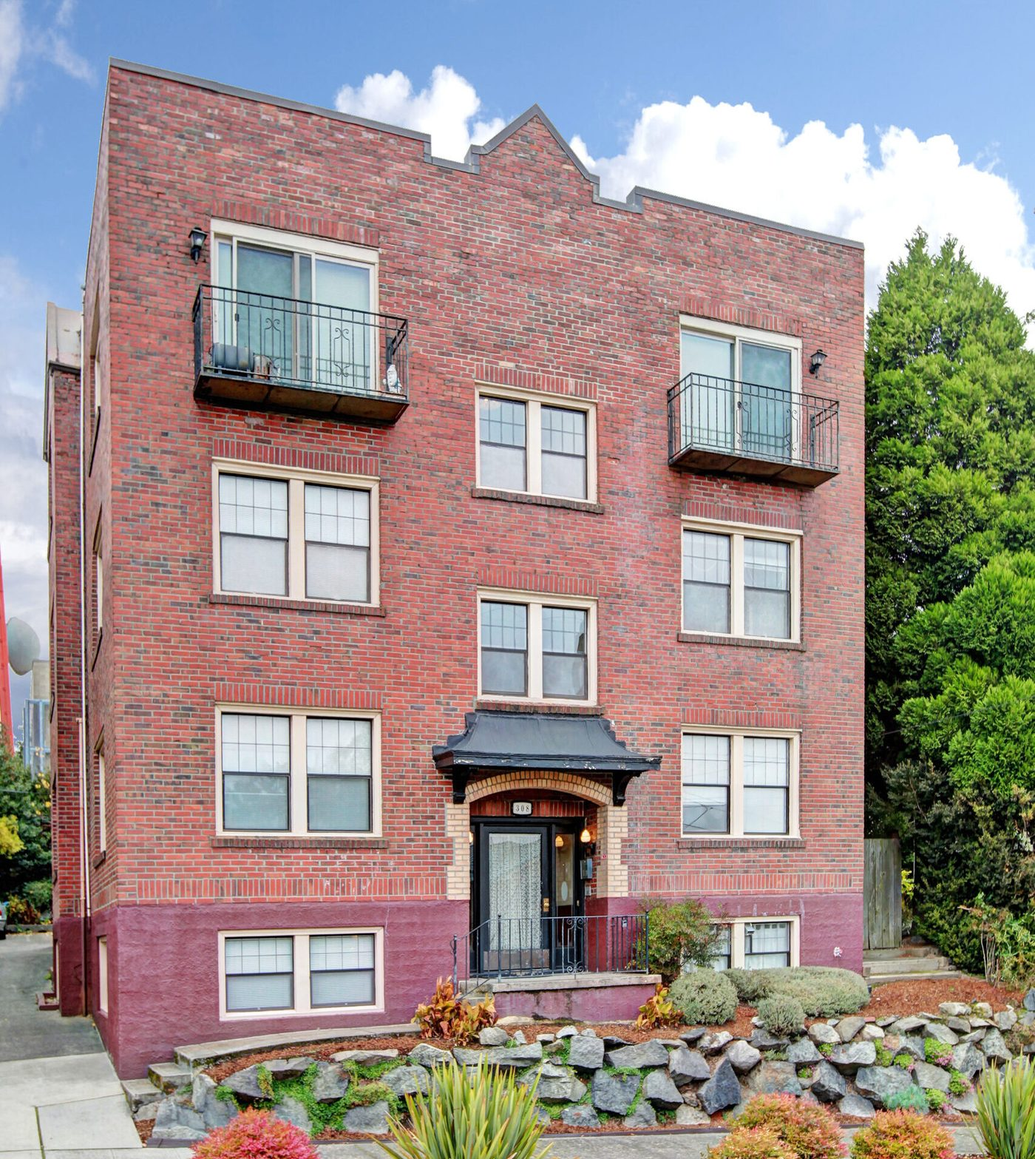
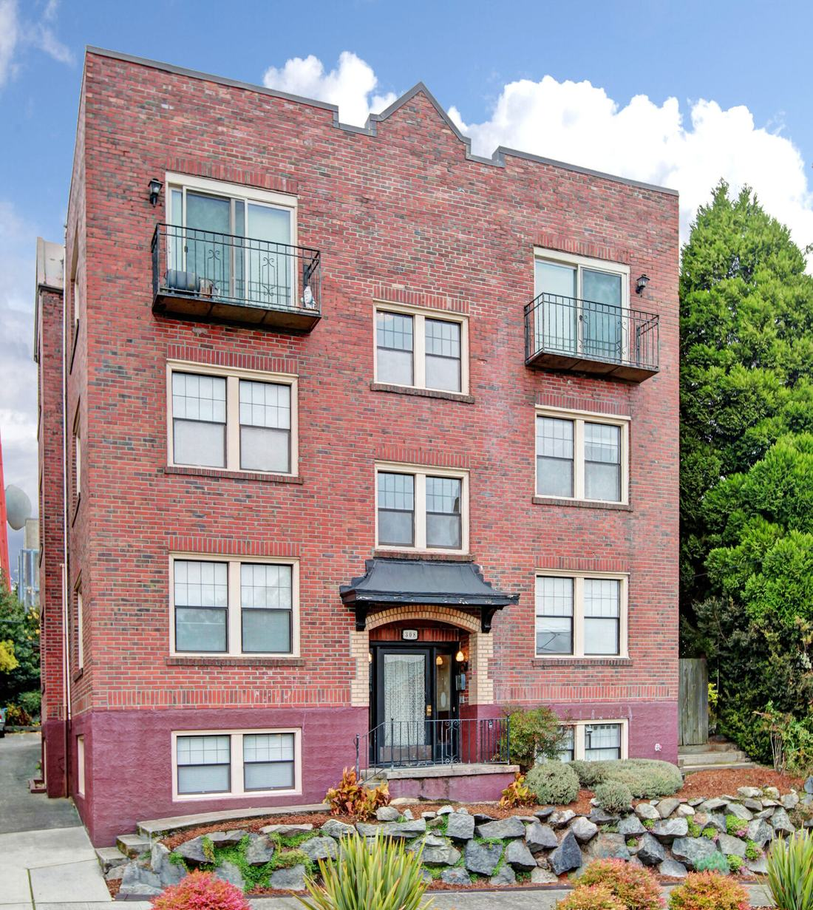
Moorman demo: Equal Housing line, Terms and Privacy links, skip link, lighter hero
Claude-Session: https://claude.ai/code/session_01ATfweUhA8yqw534rkRRJLU

diff --git a/demo/moorman/index.html b/demo/moorman/index.html
@@ -11,12 +11,13 @@
 <link rel="stylesheet" href="moorman.css">
 </head>
 <body>
+<a class="skip" href="#main">Skip to content</a>
 <p class="concept">Concept redesign by <a href="https://ghostwoodlabs.com/web-design/">Ghostwood Labs</a>. Not the official Moorman Properties website.</p>
 <header class="top">
 <a class="brand" href="./"><span>Moorman</span> Properties</a>
 <nav aria-label="Main"><a href="#available">Available Now</a><a href="queen-anne/">Queen Anne</a><a href="ballard/">Ballard</a><a href="green-lake/">Green Lake</a><a href="capitol-hill/">Capitol Hill</a><a href="#contact">Contact</a></nav>
 </header>
-<main>
+<main id="main">
 <section class="hero wrap">
 <div class="say">
 <p class="eyebrow">Seattle Apartment Rentals</p>
@@ -24,7 +25,7 @@
 <p class="lede">More than twenty-six buildings in Queen Anne, Ballard, Green Lake and Capitol Hill, from an 1899 walk-up to mid-century courtyards with a view. Our office is on Boston Street, at the top of Queen Anne.</p>
 <p class="cta"><a class="btn" href="#available">See What&rsquo;s Available</a><a class="quiet" href="tel:+12063785899">or call 206-378-5899</a></p>
 </div>
-<figure><img src="img/hero.jpg" width="1400" height="1567" alt="The Mary Lew Apartments, a brick building at the top of Queen Anne Hill" fetchpriority="high"><figcaption>The Mary Lew, Queen Anne</figcaption></figure>
+<figure><img src="img/hero.jpg" width="1100" height="1231" alt="The Mary Lew Apartments, a brick building at the top of Queen Anne Hill" fetchpriority="high"><figcaption>The Mary Lew, Queen Anne</figcaption></figure>
 </section>
 <section class="facts"><ul class="wrap">
 <li><b>26+</b> buildings</li><li><b>4</b> neighborhoods</li><li><b>1899</b> our oldest</li><li><b>12</b> apartments listed Nov 16</li>
@@ -177,7 +178,7 @@ l.forEach(function(i){i.hidden=f!=='all'&&i.dataset.hood!==f})})})})();
 <p><a href="https://moormanproperties.appfolio.com/listings" target="_blank" rel="noopener">All vacancies and applications</a><br><a href="https://www.hum.wa.gov/fair-housing" target="_blank" rel="noopener">Fair housing in Washington</a><br><a href="https://www.facebook.com/moormanproperties/" target="_blank" rel="noopener">Facebook</a></p>
 </div>
 </div>
-<p class="wrap legal">&copy; 2026 Moorman Properties &middot; Seattle, Washington</p>
+<p class="wrap legal"><span>&copy; 2026 Moorman Properties &middot; Seattle, Washington &middot; Equal Housing Opportunity</span><span><a href="https://seattleapartmentrentals.com/wpautoterms/terms-and-conditions/" target="_blank" rel="noopener">Terms of Use</a> &middot; <a href="https://seattleapartmentrentals.com/wpautoterms/privacy-policy/" target="_blank" rel="noopener">Privacy Policy</a></span></p>
 </footer>
 </body>
 </html>

diff --git a/demo/moorman/queen-anne/index.html b/demo/moorman/queen-anne/index.html
@@ -11,12 +11,13 @@
 <link rel="stylesheet" href="../moorman.css">
 </head>
 <body>
+<a class="skip" href="#main">Skip to content</a>
 <p class="concept">Concept redesign by <a href="https://ghostwoodlabs.com/web-design/">Ghostwood Labs</a>. Not the official Moorman Properties website.</p>
 <header class="top">
 <a class="brand" href="../"><span>Moorman</span> Properties</a>
 <nav aria-label="Main"><a href="../#available">Available Now</a><a href="../queen-anne/" aria-current="page">Queen Anne</a><a href="../ballard/">Ballard</a><a href="../green-lake/">Green Lake</a><a href="../capitol-hill/">Capitol Hill</a><a href="../#contact">Contact</a></nav>
 </header>
-<main>
+<main id="main">
 <section class="wrap title">
 <p class="eyebrow"><a href="../">Moorman Properties</a> &middot; 20 buildings</p>
 <h1>Queen Anne</h1>
@@ -103,7 +104,7 @@
 <p><a href="https://moormanproperties.appfolio.com/listings" target="_blank" rel="noopener">All vacancies and applications</a><br><a href="https://www.hum.wa.gov/fair-housing" target="_blank" rel="noopener">Fair housing in Washington</a><br><a href="https://www.facebook.com/moormanproperties/" target="_blank" rel="noopener">Facebook</a></p>
 </div>
 </div>
-<p class="wrap legal">&copy; 2026 Moorman Properties &middot; Seattle, Washington</p>
+<p class="wrap legal"><span>&copy; 2026 Moorman Properties &middot; Seattle, Washington &middot; Equal Housing Opportunity</span><span><a href="https://seattleapartmentrentals.com/wpautoterms/terms-and-conditions/" target="_blank" rel="noopener">Terms of Use</a> &middot; <a href="https://seattleapartmentrentals.com/wpautoterms/privacy-policy/" target="_blank" rel="noopener">Privacy Policy</a></span></p>
 </footer>
 </body>
 </html>

diff --git a/demo/moorman/capitol-hill/index.html b/demo/moorman/capitol-hill/index.html
@@ -11,12 +11,13 @@
 <link rel="stylesheet" href="../moorman.css">
 </head>
 <body>
+<a class="skip" href="#main">Skip to content</a>
 <p class="concept">Concept redesign by <a href="https://ghostwoodlabs.com/web-design/">Ghostwood Labs</a>. Not the official Moorman Properties website.</p>
 <header class="top">
 <a class="brand" href="../"><span>Moorman</span> Properties</a>
 <nav aria-label="Main"><a href="../#available">Available Now</a><a href="../queen-anne/">Queen Anne</a><a href="../ballard/">Ballard</a><a href="../green-lake/">Green Lake</a><a href="../capitol-hill/" aria-current="page">Capitol Hill</a><a href="../#contact">Contact</a></nav>
 </header>
-<main>
+<main id="main">
 <section class="wrap title">
 <p class="eyebrow"><a href="../">Moorman Properties</a> &middot; 1 building</p>
 <h1>Capitol Hill</h1>
@@ -54,7 +55,7 @@
 <p><a href="https://moormanproperties.appfolio.com/listings" target="_blank" rel="noopener">All vacancies and applications</a><br><a href="https://www.hum.wa.gov/fair-housing" target="_blank" rel="noopener">Fair housing in Washington</a><br><a href="https://www.facebook.com/moormanproperties/" target="_blank" rel="noopener">Facebook</a></p>
 </div>
 </div>
-<p class="wrap legal">&copy; 2026 Moorman Properties &middot; Seattle, Washington</p>
+<p class="wrap legal"><span>&copy; 2026 Moorman Properties &middot; Seattle, Washington &middot; Equal Housing Opportunity</span><span><a href="https://seattleapartmentrentals.com/wpautoterms/terms-and-conditions/" target="_blank" rel="noopener">Terms of Use</a> &middot; <a href="https://seattleapartmentrentals.com/wpautoterms/privacy-policy/" target="_blank" rel="noopener">Privacy Policy</a></span></p>
 </footer>
 </body>
 </html>

diff --git a/demo/moorman/green-lake/index.html b/demo/moorman/green-lake/index.html
@@ -11,12 +11,13 @@
 <link rel="stylesheet" href="../moorman.css">
 </head>
 <body>
+<a class="skip" href="#main">Skip to content</a>
 <p class="concept">Concept redesign by <a href="https://ghostwoodlabs.com/web-design/">Ghostwood Labs</a>. Not the official Moorman Properties website.</p>
 <header class="top">
 <a class="brand" href="../"><span>Moorman</span> Properties</a>
 <nav aria-label="Main"><a href="../#available">Available Now</a><a href="../queen-anne/">Queen Anne</a><a href="../ballard/">Ballard</a><a href="../green-lake/" aria-current="page">Green Lake</a><a href="../capitol-hill/">Capitol Hill</a><a href="../#contact">Contact</a></nav>
 </header>
-<main>
+<main id="main">
 <section class="wrap title">
 <p class="eyebrow"><a href="../">Moorman Properties</a> &middot; 2 buildings</p>
 <h1>Green Lake</h1>
@@ -43,7 +44,7 @@
 <p><a href="https://moormanproperties.appfolio.com/listings" target="_blank" rel="noopener">All vacancies and applications</a><br><a href="https://www.hum.wa.gov/fair-housing" target="_blank" rel="noopener">Fair housing in Washington</a><br><a href="https://www.facebook.com/moormanproperties/" target="_blank" rel="noopener">Facebook</a></p>
 </div>
 </div>
-<p class="wrap legal">&copy; 2026 Moorman Properties &middot; Seattle, Washington</p>
+<p class="wrap legal"><span>&copy; 2026 Moorman Properties &middot; Seattle, Washington &middot; Equal Housing Opportunity</span><span><a href="https://seattleapartmentrentals.com/wpautoterms/terms-and-conditions/" target="_blank" rel="noopener">Terms of Use</a> &middot; <a href="https://seattleapartmentrentals.com/wpautoterms/privacy-policy/" target="_blank" rel="noopener">Privacy Policy</a></span></p>
 </footer>
 </body>
 </html>

diff --git a/demo/moorman/ballard/index.html b/demo/moorman/ballard/index.html
@@ -11,12 +11,13 @@
 <link rel="stylesheet" href="../moorman.css">
 </head>
 <body>
+<a class="skip" href="#main">Skip to content</a>
 <p class="concept">Concept redesign by <a href="https://ghostwoodlabs.com/web-design/">Ghostwood Labs</a>. Not the official Moorman Properties website.</p>
 <header class="top">
 <a class="brand" href="../"><span>Moorman</span> Properties</a>
 <nav aria-label="Main"><a href="../#available">Available Now</a><a href="../queen-anne/">Queen Anne</a><a href="../ballard/" aria-current="page">Ballard</a><a href="../green-lake/">Green Lake</a><a href="../capitol-hill/">Capitol Hill</a><a href="../#contact">Contact</a></nav>
 </header>
-<main>
+<main id="main">
 <section class="wrap title">
 <p class="eyebrow"><a href="../">Moorman Properties</a> &middot; 3 buildings</p>
 <h1>Ballard</h1>
@@ -68,7 +69,7 @@
 <p><a href="https://moormanproperties.appfolio.com/listings" target="_blank" rel="noopener">All vacancies and applications</a><br><a href="https://www.hum.wa.gov/fair-housing" target="_blank" rel="noopener">Fair housing in Washington</a><br><a href="https://www.facebook.com/moormanproperties/" target="_blank" rel="noopener">Facebook</a></p>
 </div>
 </div>
-<p class="wrap legal">&copy; 2026 Moorman Properties &middot; Seattle, Washington</p>
+<p class="wrap legal"><span>&copy; 2026 Moorman Properties &middot; Seattle, Washington &middot; Equal Housing Opportunity</span><span><a href="https://seattleapartmentrentals.com/wpautoterms/terms-and-conditions/" target="_blank" rel="noopener">Terms of Use</a> &middot; <a href="https://seattleapartmentrentals.com/wpautoterms/privacy-policy/" target="_blank" rel="noopener">Privacy Policy</a></span></p>
 </footer>
 </body>
 </html>

diff --git a/demo/moorman/moorman.css b/demo/moorman/moorman.css
@@ -112,3 +112,8 @@ footer h3{font:500 13px var(--sans);letter-spacing:.14em;text-transform:uppercas
 .also h3{font-size:27px}
 .also ul{display:flex;flex-wrap:wrap;gap:6px 36px;margin:14px 0 12px;font:400 20px/1.4 var(--serif)}
 .also p{color:var(--mid);font-size:16px}
+.skip{position:absolute;left:-999px;top:8px;background:#fff;color:var(--ink);padding:10px 14px;z-index:5}
+.skip:focus{left:8px}
+.legal{display:flex;justify-content:space-between;gap:6px 24px;flex-wrap:wrap}
+.legal a{text-underline-offset:3px}
+@media (max-width:560px){.foot p{line-height:2.1}.legal{line-height:2}}
